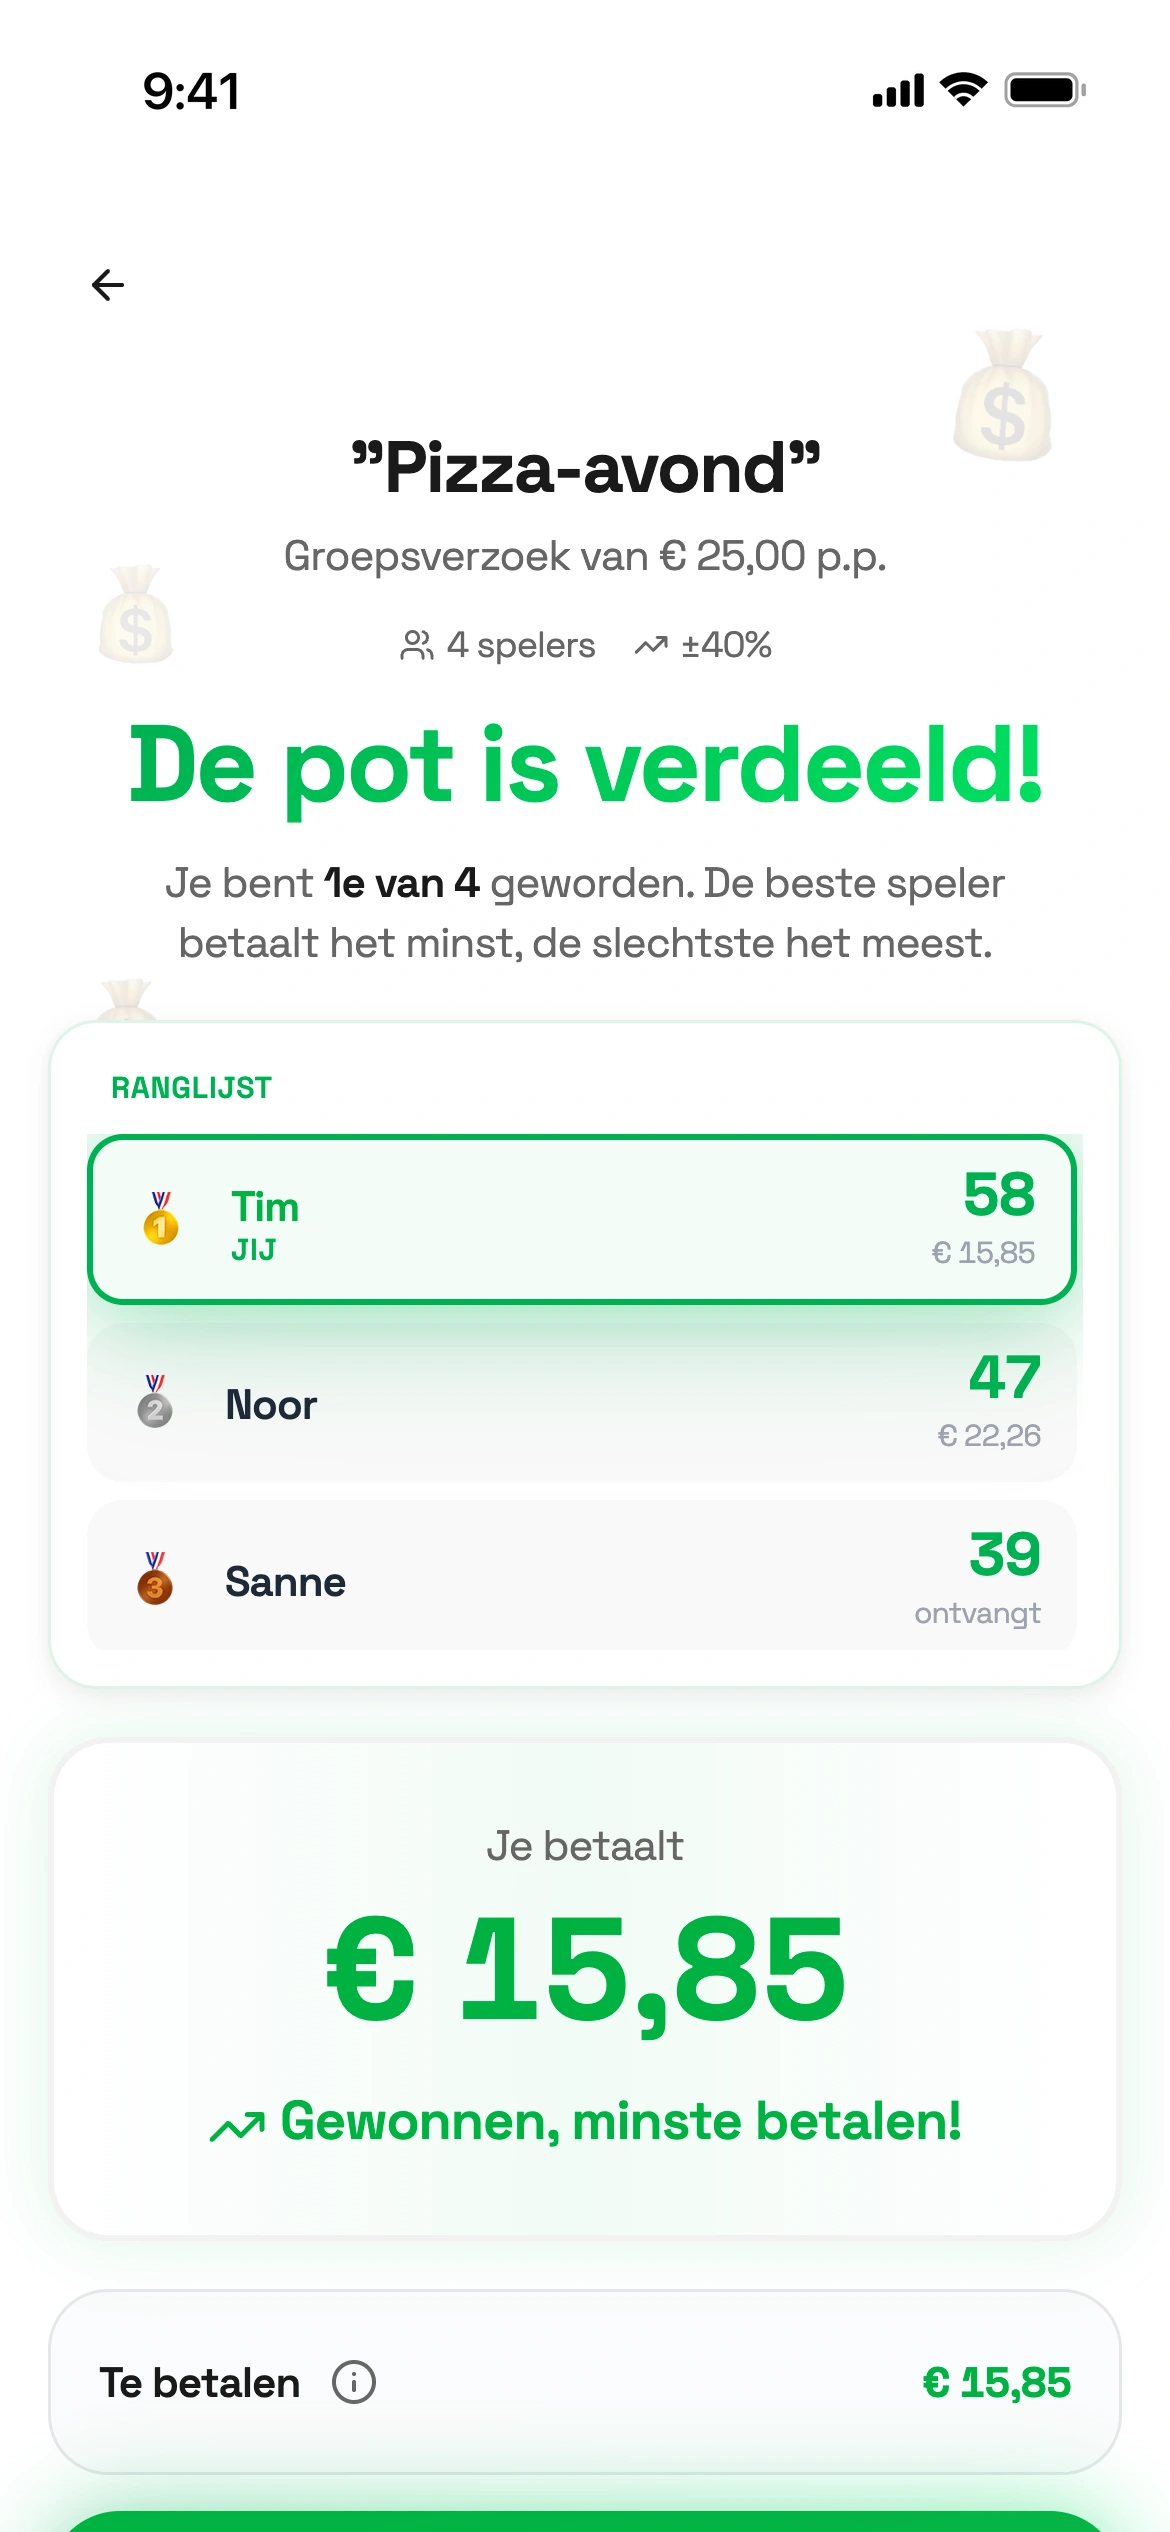
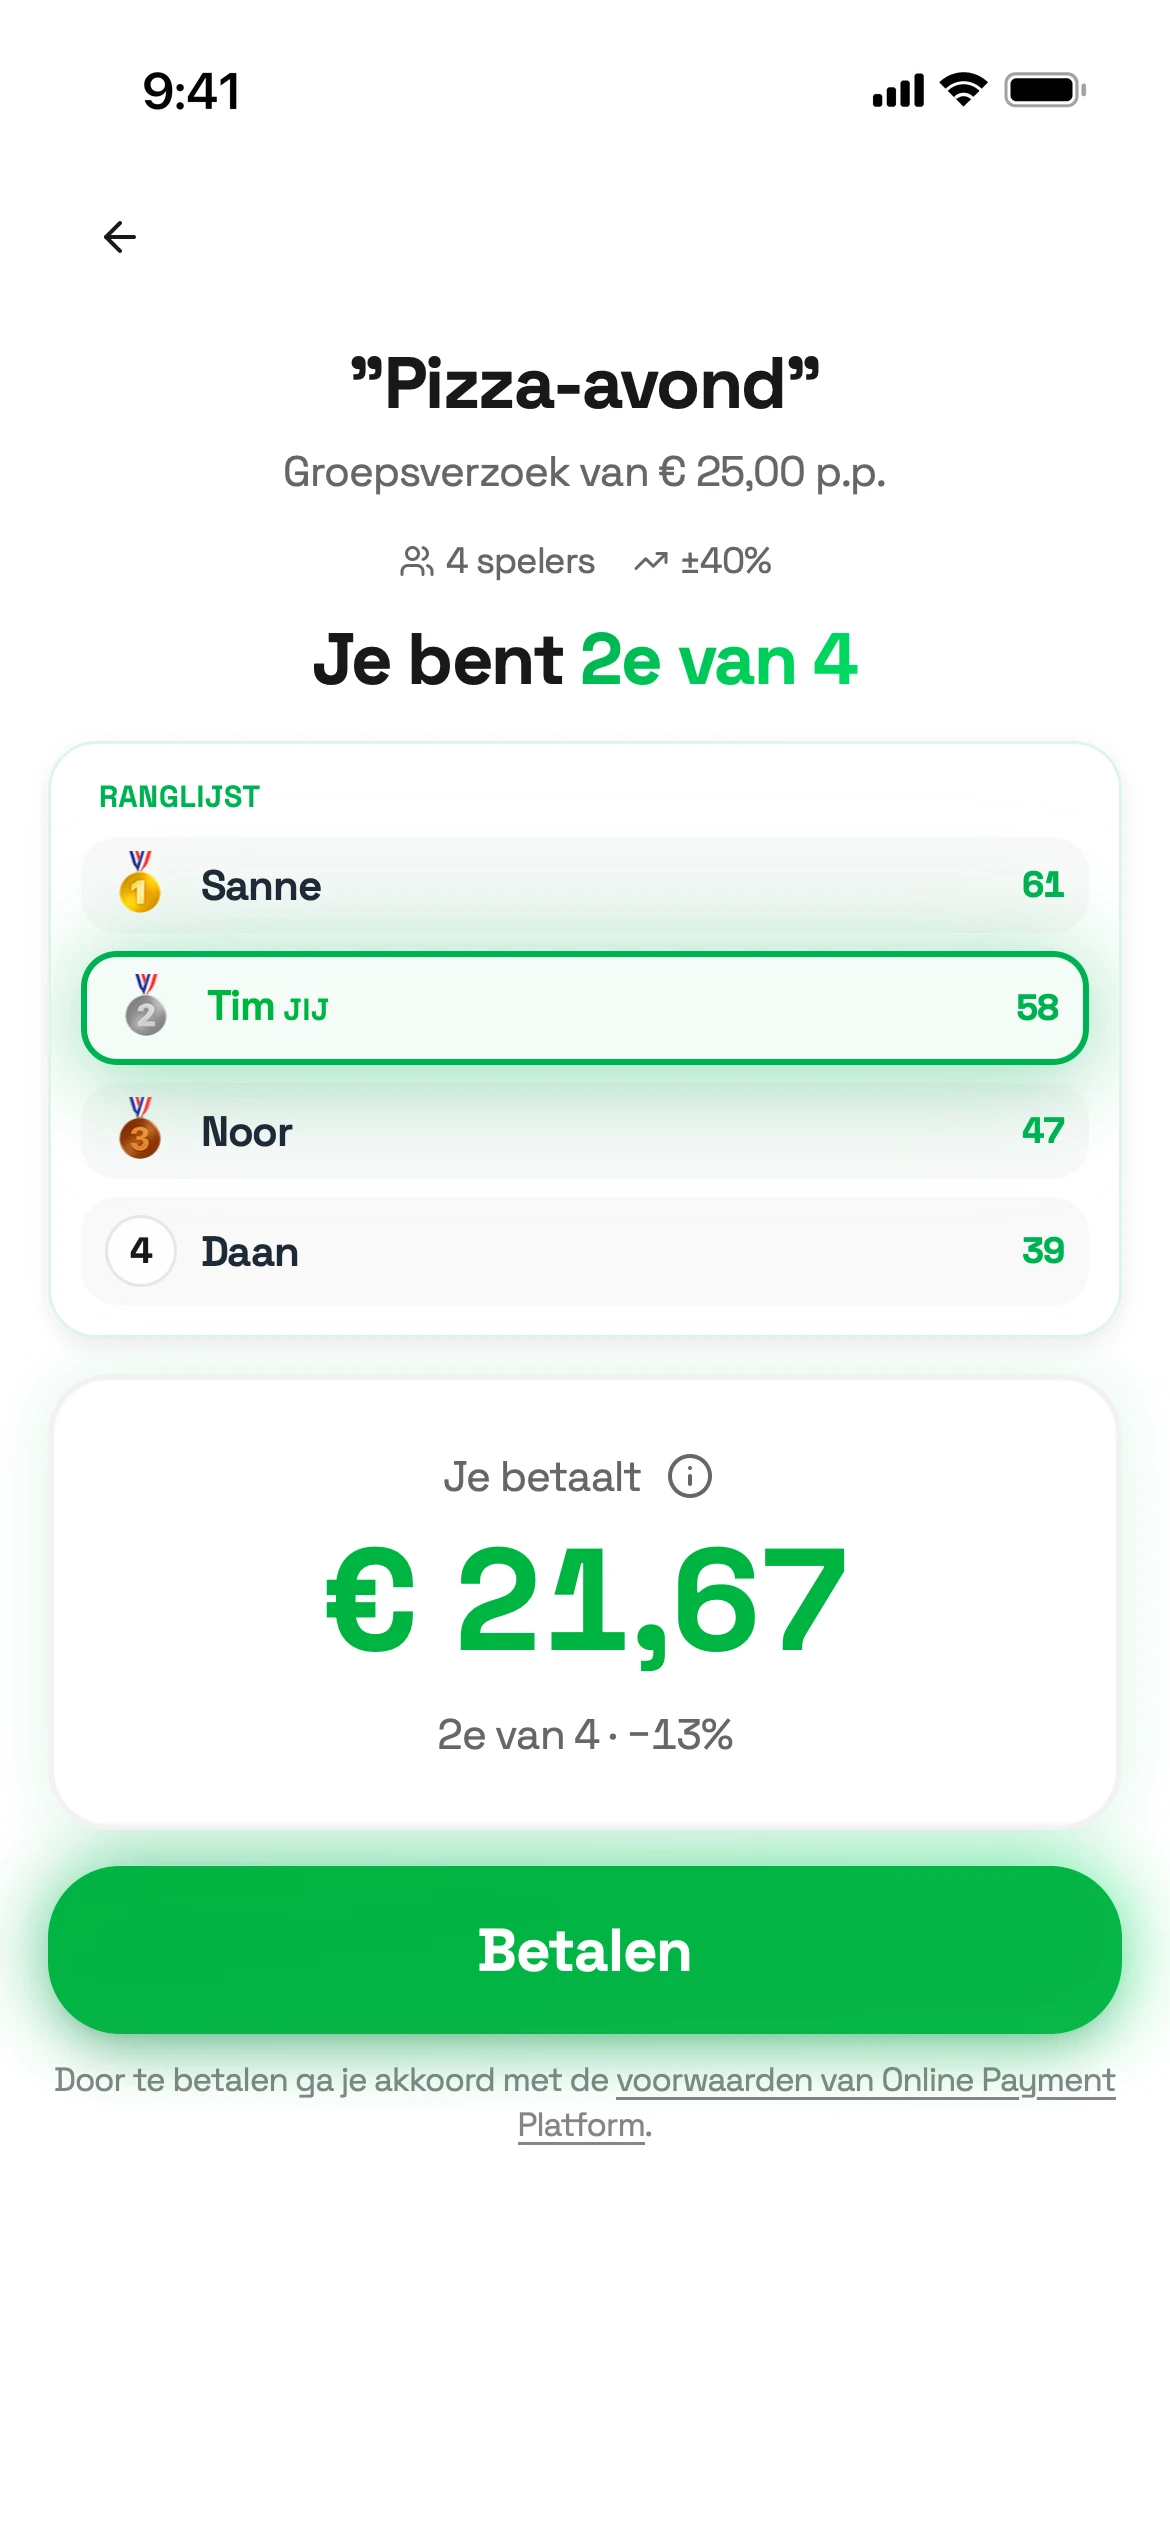
feat(stappen): nieuw uitslagscherm van Groepscentje met de Betalen-knop direct in beeld
Gemaakt uit de dev-voorbeeldpagina van de app (main fd9fbed) met nep-namen
(Sanne, Tim, Noor, Daan) en de 9:41-statusbalk; de app zelf is niet aangepast.

Claude-Session: https://claude.ai/code/session_01LkfZPYMPPRF21mqbHWvxTM

diff --git a/components/how-it-works/flows.ts b/components/how-it-works/flows.ts
@@ -91,7 +91,7 @@ export const FLOWS: Flow[] = [
         title: "De ranglijst beslist",
         text: "Heeft iedereen gespeeld, dan is de pot verdeeld. Hoe hoger je eindigt, hoe minder je betaalt. Jij ontvangt de pot.",
         image: "/app/groep-5-ranglijst.webp",
-        alt: "Ranglijst De pot is verdeeld met Tim op de eerste plek",
+        alt: "Uitslag van het Groepscentje Pizza-avond: Tim is 2e van 4, betaalt 21,67 euro en ziet direct de knop Betalen",
       },
     ],
   },
